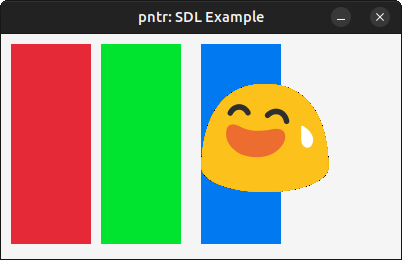
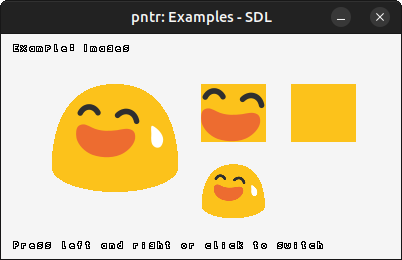
Add raylib example

diff --git a/pntr.h b/pntr.h
@@ -3,7 +3,8 @@
  *
  * Configuration:
  *
- * PNTR_SUPPORT_DEFAULT_FONT: Enables the default font.
+ * PNTR_SUPPORT_DEFAULT_FONT: Enables the default font
+ * PNTR_PIXELFORMAT_FLIPPED: Reverse the RGB pixel format
  */
 #ifndef PNTR_H__
 #define PNTR_H__
@@ -35,11 +36,17 @@ typedef enum {
 typedef union {
     uint32_t data;
     struct {
-        // TODO: Verify the order here. What about big endian?
+        #ifndef PNTR_PIXELFORMAT_FLIPPED
         unsigned char b;
         unsigned char g;
         unsigned char r;
         unsigned char a;
+        #else
+        unsigned char r;
+        unsigned char g;
+        unsigned char b;
+        unsigned char a;
+        #endif
     };
 } pntr_color;
 
@@ -254,7 +261,9 @@ extern "C" {
 #define STBI_NO_LINEAR
 #define STBI_NO_GIF
 #define STBI_NO_THREAD_LOCALS
+#ifndef PNTR_NO_STB_IMAGE_IMPLEMENTATION
 #define STB_IMAGE_IMPLEMENTATION
+#endif  // PNTR_NO_STB_IMAGE_IMPLEMENTATION
 #include "external/stb_image.h"
 #endif  // STBI_INCLUDE_STB_IMAGE_H
 
@@ -522,12 +531,12 @@ pntr_image* pntr_load_image_from_memory(const unsigned char *fileData, int dataS
     }
 
     int width, height, channels_in_file;
-    stbi_uc* output = stbi_load_from_memory(fileData, dataSize, &width, &height, &channels_in_file, 4);
+    void* output = (void*)stbi_load_from_memory(fileData, dataSize, &width, &height, &channels_in_file, 4);
     if (output == NULL) {
         return pntr_set_error("pntr_load_image_from_memory() failed to load image from memory");
     }
 
-    return pntr_image_from_pixelformat((void*)output, width, height, PNTR_PIXELFORMAT_RGBA8888);
+    return pntr_image_from_pixelformat(output, width, height, PNTR_PIXELFORMAT_RGBA8888);
 }
 
 pntr_image* pntr_load_image(const char* fileName) {
@@ -537,12 +546,12 @@ pntr_image* pntr_load_image(const char* fileName) {
 
     int width, height, channels_in_file;
     // TODO: Implement an abstracted file system and use pntr_load_image_from_memory() instead.
-    stbi_uc* output = stbi_load(fileName, &width, &height, &channels_in_file, 4);
+    void* output = (void*)stbi_load(fileName, &width, &height, &channels_in_file, 4);
     if (output == NULL) {
         return pntr_set_error("pntr_load_image() failed to load image with stbi_load");
     }
 
-    return pntr_image_from_pixelformat((void*)output, width, height, PNTR_PIXELFORMAT_RGBA8888);
+    return pntr_image_from_pixelformat(output, width, height, PNTR_PIXELFORMAT_RGBA8888);
 }
 
 #define COMPOSE_FAST(S, D, A) (((S * A) + (D * (256U - A))) >> 8U)
@@ -643,7 +652,11 @@ pntr_image* pntr_image_from_pixelformat(void* data, int width, int height, pntr_
     output->data = (pntr_color*)data;
 
     switch (pixelFormat) {
+        #ifdef PNTR_PIXELFORMAT_FLIPPED
+        case PNTR_PIXELFORMAT_ARGB8888: {
+        #else
         case PNTR_PIXELFORMAT_RGBA8888: {
+        #endif
             pntr_color color;
             for (int i = 0; i < width * height; i++) {
                 color = output->data[i];
@@ -894,15 +907,16 @@ pntr_font* pntr_load_default_font() {
     // https://github.com/Grumbel/SDL_tty/blob/master/src/font8x8.h
     #include "external/font8x8.h"
 
+    // Port the font8x8 data to a pntr_image
     pntr_image* sourceImage = pntr_image_from_pixelformat((void*)font8x8_data, font8x8_width, font8x8_height, PNTR_PIXELFORMAT_RGBA8888);
     if (sourceImage == NULL) {
         return pntr_set_error("pntr_load_default_font() failed to convert default image");
     }
 
-    // Create a copy since the original source data is held locally.
+    // Create a copy since the original source data is held locally
     pntr_image* newImage = pntr_image_copy(sourceImage);
 
-    // Since the source data is defined locally, don't free() it.
+    // Since the source data is defined locally, don't free() it
     sourceImage->data = NULL;
     pntr_unload_image(sourceImage);
 

diff --git a/examples/pntr_examples_sdl.c b/examples/pntr_examples_sdl.c
@@ -1,24 +1,17 @@
 #include <stdbool.h>
 #include <SDL.h>
 
-#define PNTR_SUPPORT_DEFAULT_FONT
-#define PNTR_IMPLEMENTATION
-#include "../pntr.h"
-
+// Load pntr and the examples
 #include "examples/examples.h"
 
 int main() {
-    // pntr: Create an image to display
-    pntr_image* canvas = pntr_new_image(400, 225);
-    pntr_font* font = pntr_load_default_font();
-    int currentExample = 0;
+    // Initialize
     examples_init();
 
-    // SDL
     SDL_Init(SDL_INIT_VIDEO | SDL_INIT_EVENTS);
-    SDL_Window* window = SDL_CreateWindow("pntr: SDL Example", SDL_WINDOWPOS_CENTERED, SDL_WINDOWPOS_CENTERED, canvas->width, canvas->height, SDL_WINDOW_SHOWN);
+    SDL_Window* window = SDL_CreateWindow("pntr: Examples - SDL", SDL_WINDOWPOS_CENTERED, SDL_WINDOWPOS_CENTERED, examples_width(), examples_height(), SDL_WINDOW_SHOWN);
     SDL_Surface* screen = SDL_GetWindowSurface(window);
-    SDL_Surface* surface = SDL_CreateRGBSurfaceWithFormatFrom(canvas->data, canvas->width, canvas->height, 8, canvas->pitch, SDL_PIXELFORMAT_ARGB8888);
+    SDL_Surface* surface = SDL_CreateRGBSurfaceWithFormatFrom(examples_data(), examples_width(), examples_height(), 8, examples_pitch(), SDL_PIXELFORMAT_ARGB8888);
     SDL_Event event;
 
     bool shouldClose = false;
@@ -30,9 +23,7 @@ int main() {
                     shouldClose = true;
                     break;
                 case SDL_MOUSEBUTTONUP:
-                    if (++currentExample >= examples_count()) {
-                        currentExample = 0;
-                    }
+                    examples_next();
                     break;
                 case SDL_KEYUP:
                     switch (event.key.keysym.sym) {
@@ -40,28 +31,20 @@ int main() {
                             shouldClose = true;
                             break;
                         case SDLK_LEFT:
-                            if (--currentExample < 0) {
-                                currentExample = examples_count() - 1;
-                            }
+                            examples_previous();
                             break;
                         case SDLK_RIGHT:
                         case SDLK_SPACE:
-                            if (++currentExample >= examples_count()) {
-                                currentExample = 0;
-                            }
+                            examples_next();
                             break;
                     }
                     break;
             }
         }
 
-        pntr_clear_background(canvas, PNTR_RAYWHITE);
-        const char* exampleTitle = examples_update(currentExample, canvas);
-        pntr_draw_text(canvas, font, "Example:", 10, 10);
-        pntr_draw_text(canvas, font, exampleTitle, 80, 10);
-        pntr_draw_text(canvas, font, "Press left and right or click to switch", 10, canvas->height - 18);
+        // Update
+        examples_update();
 
-        // SDL: Push to the screen
         SDL_BlitSurface(surface, NULL, screen, NULL);
         SDL_UpdateWindowSurface(window);
     }
@@ -69,7 +52,6 @@ int main() {
     SDL_FreeSurface(surface);
 
     // Unload
-    pntr_unload_image(canvas);
     examples_unload();
 
     SDL_DestroyWindow(window);

diff --git a/examples/examples/examples.h b/examples/examples/examples.h
@@ -1,32 +1,76 @@
+#define PNTR_SUPPORT_DEFAULT_FONT
+#define PNTR_IMPLEMENTATION
 #include "../../pntr.h"
 
 #include "example_shapes.h"
 #include "example_fonts.h"
 #include "example_images.h"
+#define EXAMPLES_COUNT 3
 
-int examples_count() {
-    return 3;
-}
+int currentExample;
+pntr_image* canvas;
+pntr_font* font;
 
 void examples_init() {
+    canvas = pntr_new_image(400, 225);
+    font = pntr_load_default_font();
+    currentExample = 0;
     example_shapes_init();
     example_fonts_init();
     example_images_init();
 }
 
-const char* examples_update(int i, pntr_image* canvas) {
-    switch (i) {
+void examples_update() {
+    pntr_clear_background(canvas, PNTR_RAYWHITE);
+    const char* exampleTitle;
+    switch (currentExample) {
         case 0:
-            return example_shapes_update(canvas);
+            exampleTitle = example_shapes_update(canvas);
+            break;
         case 1:
-            return example_images_update(canvas);
+            exampleTitle = example_images_update(canvas);
+            break;
         case 2:
-            return example_fonts_update(canvas);
+            exampleTitle = example_fonts_update(canvas);
+            break;
     }
+
+    pntr_draw_text(canvas, font, "Example:", 10, 10);
+    pntr_draw_text(canvas, font, exampleTitle, 80, 10);
+    pntr_draw_text(canvas, font, "Press left and right or click to switch", 10, canvas->height - 18);
 }
 
 void examples_unload() {
     example_shapes_unload();
     example_fonts_unload();
     example_images_unload();
+    pntr_unload_image(canvas);
+}
+
+void* examples_data() {
+    return (void*)canvas->data;
+}
+
+int examples_width() {
+    return canvas->width;
+}
+
+int examples_pitch() {
+    return canvas->pitch;
+}
+
+int examples_height() {
+    return canvas->height;
+}
+
+void examples_previous() {
+    if (--currentExample < 0) {
+        currentExample = EXAMPLES_COUNT - 1;
+    }
+}
+
+void examples_next() {
+    if (++currentExample >= EXAMPLES_COUNT) {
+        currentExample = 0;
+    }
 }

diff --git a/examples/pntr_examples_raylib.c b/examples/pntr_examples_raylib.c
@@ -1,0 +1,55 @@
+#include "raylib.h"
+
+// raylib can display RGBA, so tell pntr to reverse the pixels
+#define PNTR_PIXELFORMAT_FLIPPED
+
+// raylib already uses stb_image, so we skip its implementation.
+#define PNTR_NO_STB_IMAGE_IMPLEMENTATION
+
+// Load pntr and the examples
+#include "examples/examples.h"
+
+int main() {
+    // Initialize
+    examples_init();
+
+    InitWindow(examples_width(), examples_height(), "pntr: Examples - raylib");
+
+    Image image;
+    image.data = examples_data();
+    image.width = examples_width();
+    image.height = examples_height();
+    image.format = PIXELFORMAT_UNCOMPRESSED_R8G8B8A8;
+    image.mipmaps = 1;
+    Texture texture = LoadTextureFromImage(image);
+
+    SetTargetFPS(60);
+
+    while (!WindowShouldClose()) {
+        // Input
+        if (IsKeyPressed(KEY_LEFT) || IsMouseButtonPressed(MOUSE_BUTTON_RIGHT)) {
+            examples_previous();
+        }
+        if (IsKeyPressed(KEY_RIGHT) || IsMouseButtonPressed(MOUSE_BUTTON_LEFT)) {
+            examples_next();
+        }
+
+        // Update
+        examples_update();
+
+        // Get the pixels on the screen
+        UpdateTexture(texture, examples_data());
+
+        BeginDrawing();
+            ClearBackground(RAYWHITE);
+            DrawTexture(texture, 0, 0, WHITE);
+        EndDrawing();
+    }
+
+    CloseWindow();
+
+    // Unload
+    examples_unload();
+
+    return 0;
+}

diff --git a/test/pntr_test.c b/test/pntr_test.c
@@ -143,6 +143,26 @@ int main() {
         pntr_unload_font(font);
     }
 
+    // pntr_image_resize()
+    {
+        pntr_image* image = pntr_load_image("resources/image.png");
+        assert(image != NULL);
+
+        pntr_image* resized = pntr_image_resize(image, 640, 480, PNTR_FILTER_NEARESTNEIGHBOR);
+        assert(resized != NULL);
+        assert(resized->width == 640);
+        assert(resized->height == 480);
+        pntr_unload_image(resized);
+
+        resized = pntr_image_resize(image, 100, 100, PNTR_FILTER_NEARESTNEIGHBOR);
+        assert(resized != NULL);
+        assert(resized->width == 100);
+        assert(resized->height == 100);
+        pntr_unload_image(resized);
+
+        pntr_unload_image(image);
+    }
+
     // Ensure there were no errors.
     assert(pntr_get_error() == NULL);
 

diff --git a/examples/examples/example_shapes.h b/examples/examples/example_shapes.h
@@ -5,9 +5,13 @@ void example_shapes_init() {
 }
 
 const char* example_shapes_update(pntr_image* canvas) {
-
+    // Rectangle
     pntr_draw_rectangle(canvas, 60, 60, 50, 50, PNTR_RED);
+
+    // Circle
     pntr_draw_circle(canvas, 220, 150, 50, PNTR_BLUE);
+
+    // Pixel
     pntr_draw_pixel(canvas, 50, 50, PNTR_PURPLE);
 
     return "Shapes";

diff --git a/examples/examples/example_fonts.h b/examples/examples/example_fonts.h
@@ -5,7 +5,6 @@ pntr_font* ttyFont;
 pntr_font* bmFont;
 
 void example_fonts_init() {
-
     // Default Font
     defaultFont = pntr_load_default_font();
 

diff --git a/README.md b/README.md
@@ -4,4 +4,12 @@ Low-level image manipulation using the ARGB8888 pixel format in C99.
 
 Work in progress.
 
-![SDL Example ScreenShot](examples/pntr_sdl_example.png)
+## Screenshots
+
+![pntr: Examples - SDL Screenshot](examples/pntr_examples_sdl.png)
+
+![pntr: Examples - raylib Screenshot](examples/pntr_examples_raylib.png)
+
+## License
+
+[Zlib](LICENSE)
